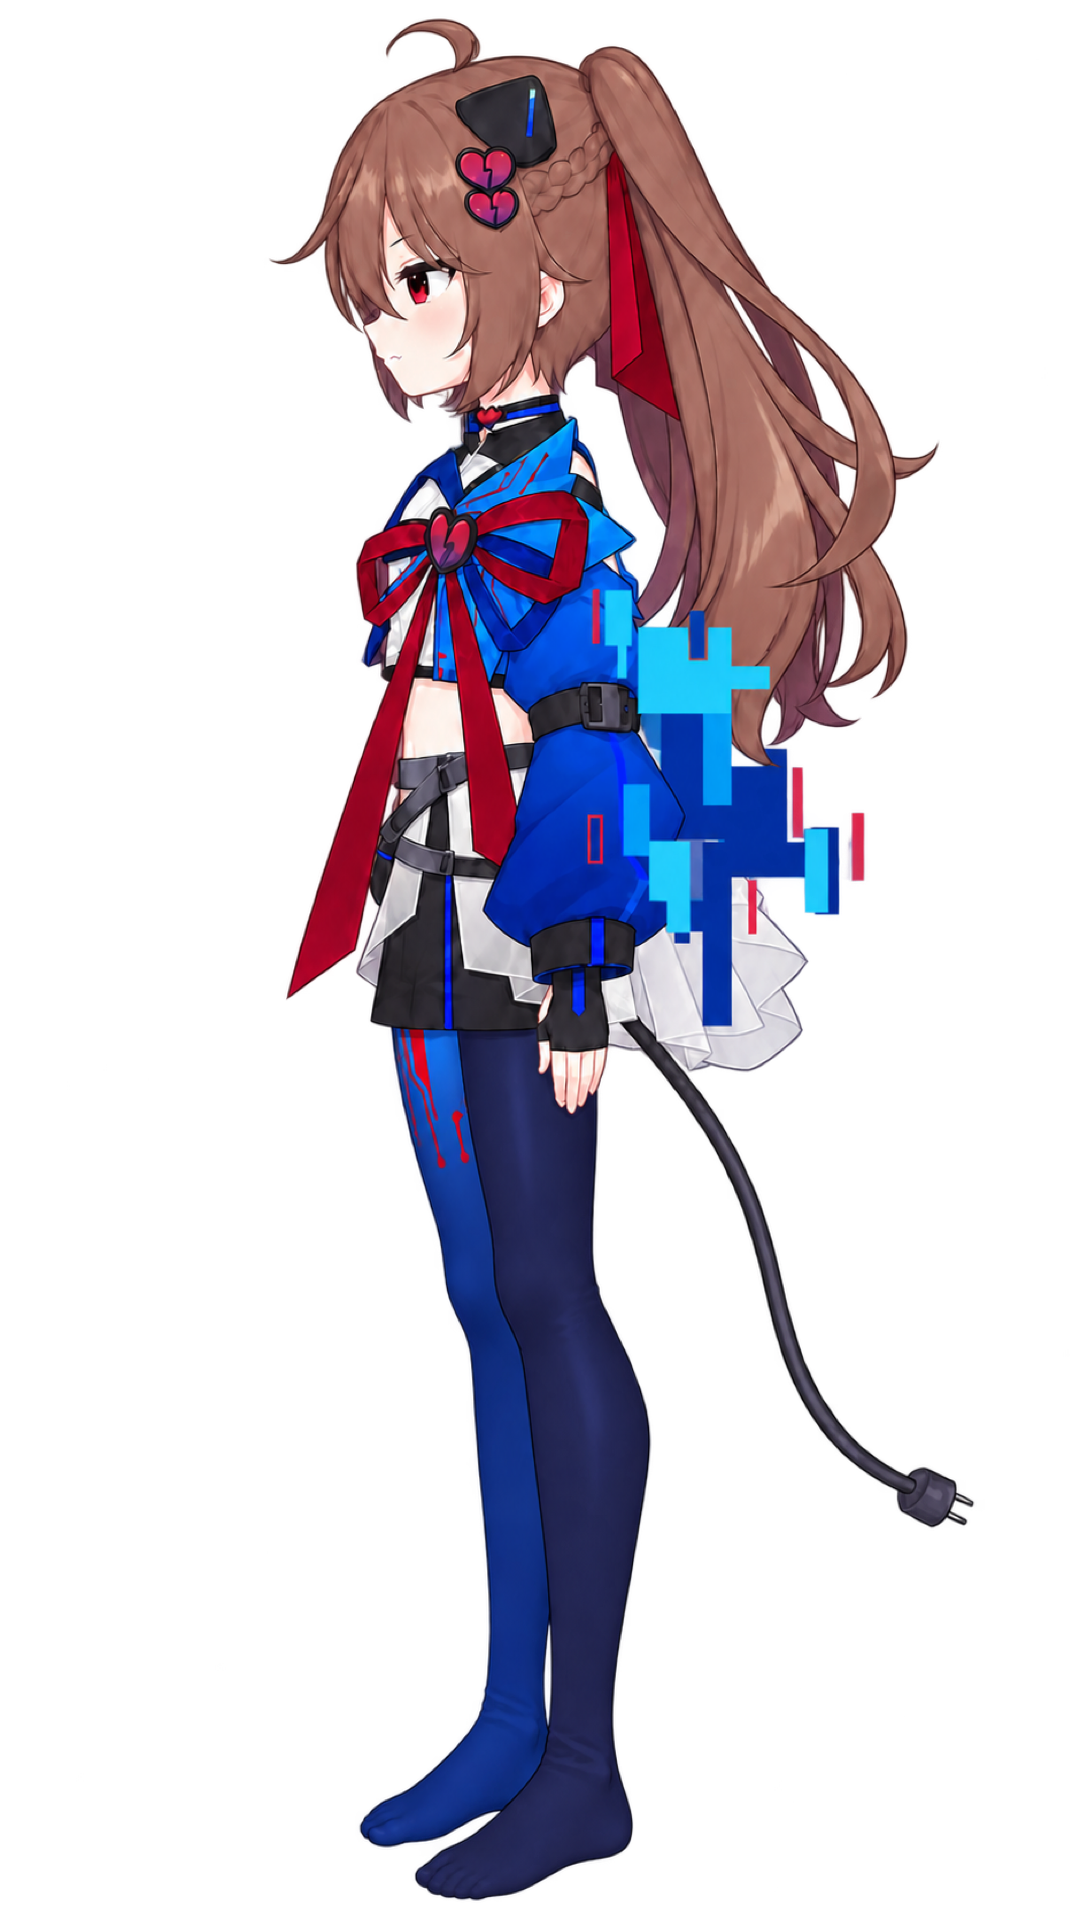
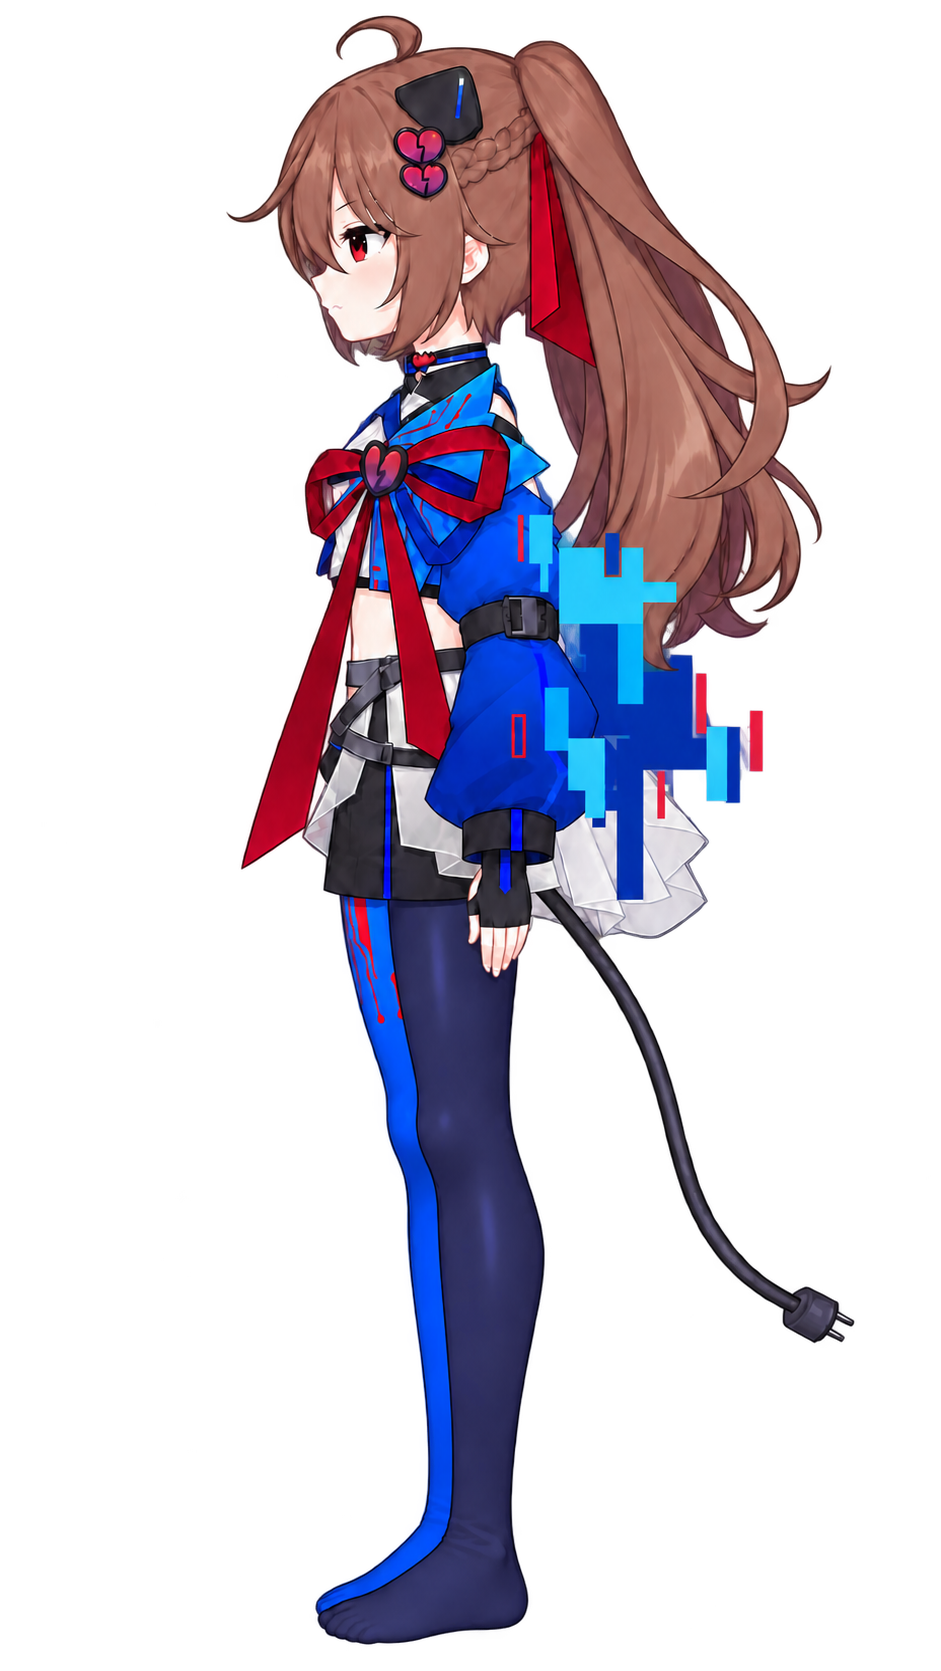
fix: refine Cyber Knight turnaround views

Changed region(s): [[0.2465, 0.0, 0.8937, 0.9958], [0.7705, 0.7469, 0.9245, 0.8091], [0.339, 0.0311, 0.3698, 0.0622]]

diff --git a/README.md b/README.md
@@ -192,11 +192,15 @@ This set intentionally matches the standard views; both use the same white stock
 |:---:|:---:|:---:|:---:|
 | [![Front](Illustration_Evil_Cyber_Knight/front.png)](Illustration_Evil_Cyber_Knight/front.png) | [![Right](Illustration_Evil_Cyber_Knight/right.png)](Illustration_Evil_Cyber_Knight/right.png) | [![Back](Illustration_Evil_Cyber_Knight/back.png)](Illustration_Evil_Cyber_Knight/back.png) | [![Left](Illustration_Evil_Cyber_Knight/left.png)](Illustration_Evil_Cyber_Knight/left.png) |
 
+Earlier right views: [original](Illustration_Evil_Cyber_Knight/revisions/right-v1.png) · [first correction](Illustration_Evil_Cyber_Knight/revisions/right-v2.png) · [before crop correction](Illustration_Evil_Cyber_Knight/revisions/right-v3.png).
+
 ### Illustration Evil Cyber Knight (Stockings)
 
 | Front | Right | Back | Left |
 |:---:|:---:|:---:|:---:|
 | [![Front](Illustration_Evil_Cyber_Knight%20%28Stockings%29/front.png)](Illustration_Evil_Cyber_Knight%20%28Stockings%29/front.png) | [![Right](Illustration_Evil_Cyber_Knight%20%28Stockings%29/right.png)](Illustration_Evil_Cyber_Knight%20%28Stockings%29/right.png) | [![Back](Illustration_Evil_Cyber_Knight%20%28Stockings%29/back.png)](Illustration_Evil_Cyber_Knight%20%28Stockings%29/back.png) | [![Left](Illustration_Evil_Cyber_Knight%20%28Stockings%29/left.png)](Illustration_Evil_Cyber_Knight%20%28Stockings%29/left.png) |
+
+Earlier Stockings views: [front original](Illustration_Evil_Cyber_Knight%20%28Stockings%29/revisions/front-v1.png) · [front before crop correction](Illustration_Evil_Cyber_Knight%20%28Stockings%29/revisions/front-v2.png) · [right original](Illustration_Evil_Cyber_Knight%20%28Stockings%29/revisions/right-v1.png) · [right first correction](Illustration_Evil_Cyber_Knight%20%28Stockings%29/revisions/right-v2.png) · [right before crop correction](Illustration_Evil_Cyber_Knight%20%28Stockings%29/revisions/right-v3.png) · [back original](Illustration_Evil_Cyber_Knight%20%28Stockings%29/revisions/back-v1.png) · [left original](Illustration_Evil_Cyber_Knight%20%28Stockings%29/revisions/left-v1.png) · [left first correction](Illustration_Evil_Cyber_Knight%20%28Stockings%29/revisions/left-v2.png).
 
 ### Illustration Evil v2 04
 
